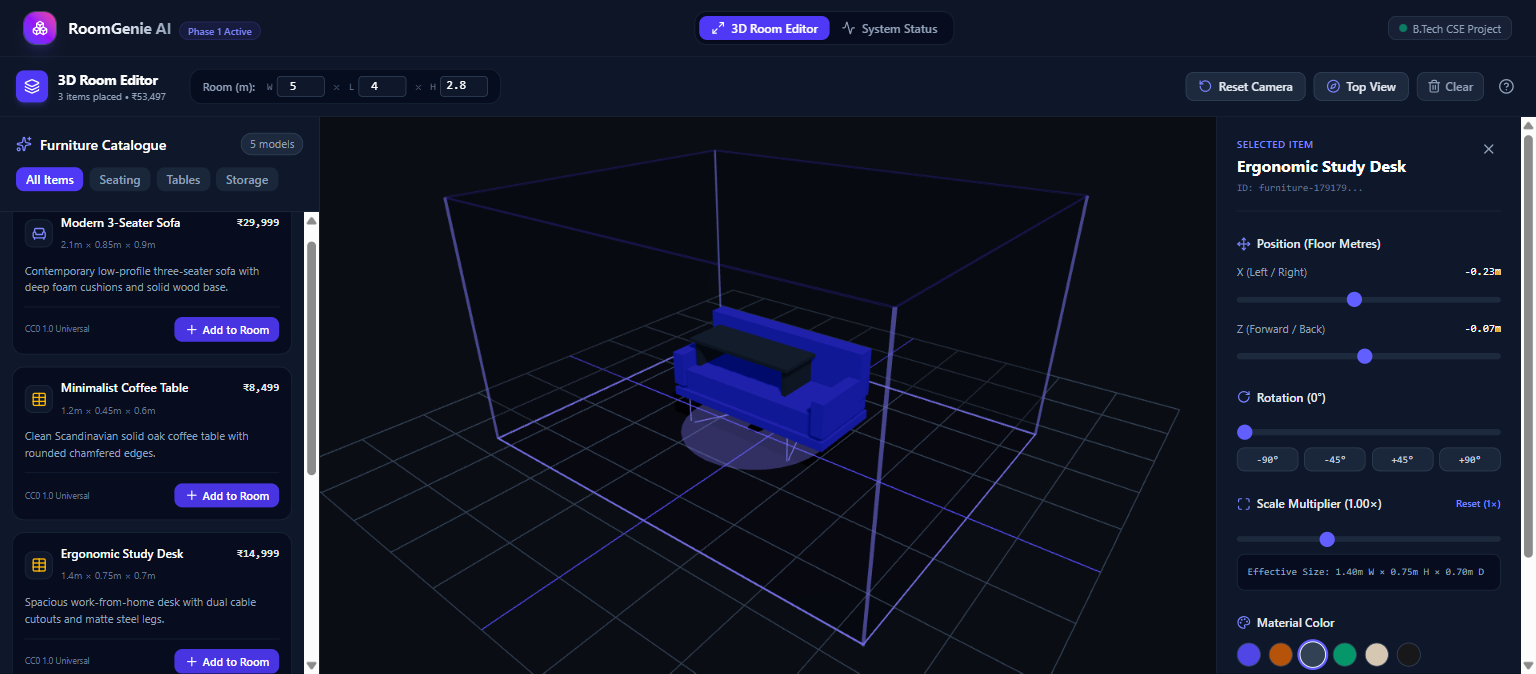
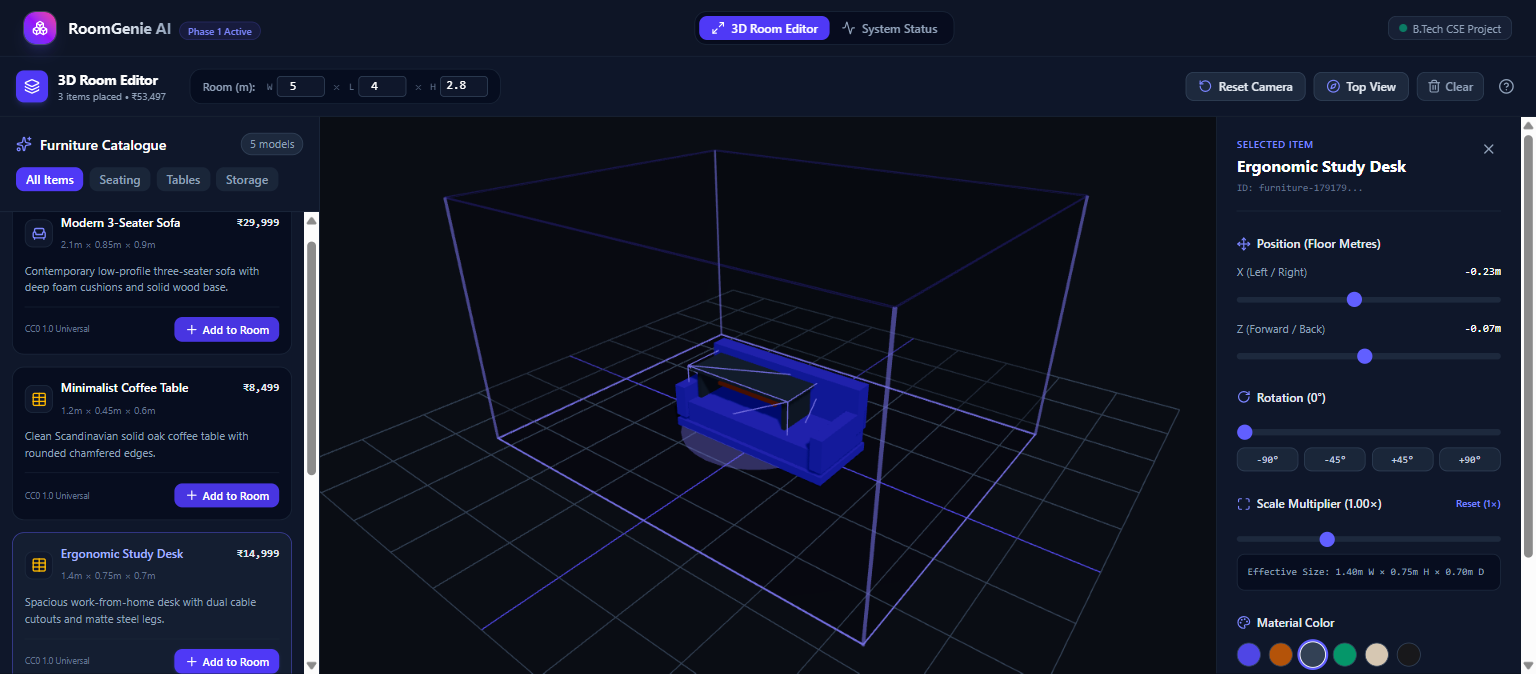
fix(3d): correct vertical floor alignment and coordinate centering for GLB models

Changed region(s): [[0.4375, 0.4362, 0.5938, 0.7166], [0.0938, 0.997, 0.1875, 1.0], [0.0312, 0.8101, 0.125, 0.8412]]

diff --git a/frontend/src/editor3d/components/FurnitureItem.tsx b/frontend/src/editor3d/components/FurnitureItem.tsx
@@ -14,12 +14,22 @@ interface GLTFModelProps {
   color: string;
   roughness: number;
   metalness: number;
+  height: number;
 }
 
-const GLTFModel: React.FC<GLTFModelProps> = ({ url, color, roughness, metalness }) => {
+const GLTFModel: React.FC<GLTFModelProps> = ({ url, color, roughness, metalness, height }) => {
   const { scene } = useGLTF(url);
   const cloned = useMemo(() => {
     const clone = scene.clone(true);
+
+    // Floor alignment compensation:
+    // In FurnitureItem local group space (where group origin is at world Y = height / 2),
+    // the floor plane is at local Y = -height / 2.
+    // Align the loaded model so that its lowest geometry point (bbox.min.y) sits flush at local Y = -height / 2.
+    const bbox = new THREE.Box3().setFromObject(clone);
+    const yOffset = -bbox.min.y - (height / 2);
+    clone.position.y += yOffset;
+
     clone.traverse((child: any) => {
       if (child.isMesh && child.material) {
         child.castShadow = true;
@@ -31,7 +41,7 @@ const GLTFModel: React.FC<GLTFModelProps> = ({ url, color, roughness, metalness 
       }
     });
     return clone;
-  }, [scene, color, roughness, metalness]);
+  }, [scene, color, roughness, metalness, height]);
 
   return <primitive object={cloned} />;
 };
@@ -239,6 +249,7 @@ export const FurnitureItem: React.FC<FurnitureItemProps> = ({ placement }) => {
               color={color}
               roughness={roughness}
               metalness={metalness}
+              height={height}
             />
           </Suspense>
         </ModelErrorBoundary>

diff --git a/frontend/scripts/generateModels.js b/frontend/scripts/generateModels.js
@@ -32,7 +32,22 @@ if (!fs.existsSync(outputDir)) {
 const exporter = new GLTFExporter();
 
 async function exportGLB(group, filename) {
-  const glb = await exporter.parseAsync(group, { binary: true });
+  // Center group bounding box at origin (0, 0, 0)
+  // This ensures the model's base sits at Y = -height / 2 and top sits at Y = +height / 2
+  const bboxBefore = new THREE.Box3().setFromObject(group);
+  const center = new THREE.Vector3();
+  bboxBefore.getCenter(center);
+
+  // Shift group so that its geometric center is at (0, 0, 0)
+  group.position.set(-center.x, -center.y, -center.z);
+
+  const container = new THREE.Group();
+  container.add(group);
+
+  const bboxAfter = new THREE.Box3().setFromObject(container);
+  console.log(`${filename} bounds: Y min = ${bboxAfter.min.y.toFixed(3)}, Y max = ${bboxAfter.max.y.toFixed(3)}, height = ${(bboxAfter.max.y - bboxAfter.min.y).toFixed(3)}m`);
+
+  const glb = await exporter.parseAsync(container, { binary: true });
   const filePath = path.join(outputDir, filename);
   fs.writeFileSync(filePath, Buffer.from(glb));
   console.log(`Generated: ${filename} (${glb.byteLength} bytes)`);
